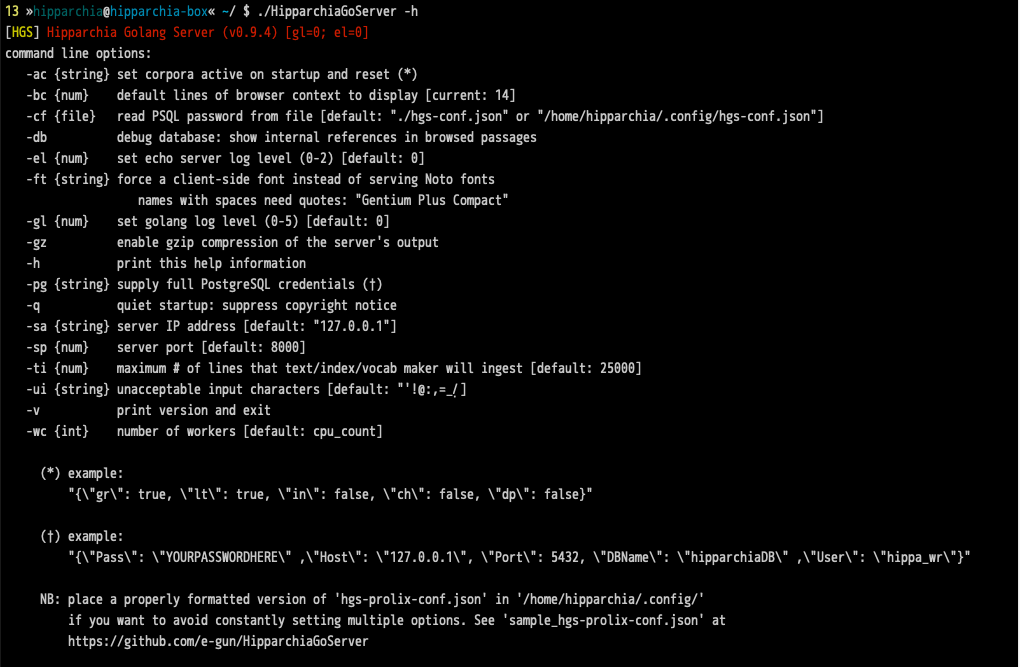
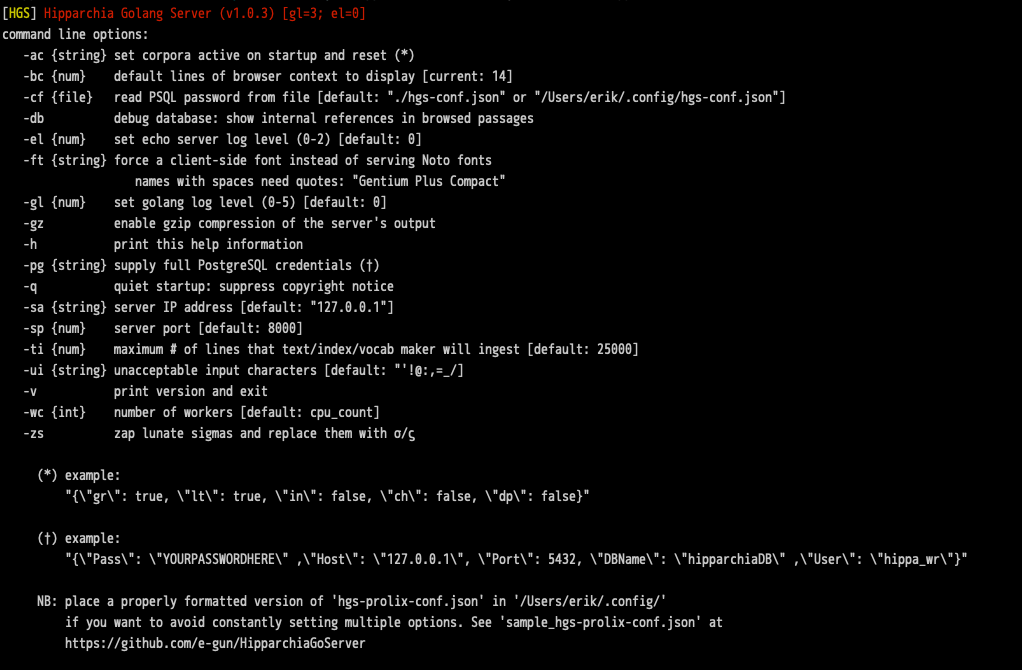
rationalizeselections() was not dropping deselected passage names when you picked an author

diff --git a/rt-search.go b/rt-search.go
@@ -57,7 +57,7 @@ func RtSearch(c echo.Context) error {
 	srch.ID = c.Param("id")
 	srch.IsVector = false
 	// HasPhrase makes us use a fake limit temporarily
-	reallimit := srch.Limit
+	reallimit := srch.CurrentLimit
 
 	srch.CleanInput()
 	srch.SetType() // must happen before SSBuildQueries()
@@ -75,10 +75,9 @@ func RtSearch(c echo.Context) error {
 	srch.SearchSize = sl.Size
 
 	if srch.Twobox {
-		srch.Limit = FIRSTSEARCHLIM
+		srch.CurrentLimit = FIRSTSEARCHLIM
 	}
 	SSBuildQueries(&srch)
-	srch.Limit = reallimit
 
 	srch.TableSize = len(srch.Queries)
 	srch.IsActive = true
@@ -94,6 +93,14 @@ func RtSearch(c echo.Context) error {
 	} else {
 		completed = HGoSrch(SearchMap[id])
 	}
+
+	// deduplicate
+	dedup := make(map[string]DbWorkline)
+	for _, r := range completed.Results {
+		dedup[r.BuildHyperlink()] = r
+	}
+
+	completed.Results = stringmapintoslice(dedup)
 
 	if completed.HasPhrase {
 		// you did HGoSrch() and need to check the windowed lines
@@ -172,7 +179,7 @@ func WithinXLinesSearch(originalsrch SearchStruct) SearchStruct {
 		newpsg[i] = np
 	}
 
-	second.Limit = originalsrch.Limit
+	second.CurrentLimit = originalsrch.CurrentLimit
 	second.SearchIn.Passages = newpsg
 
 	SSBuildQueries(&second)
@@ -406,14 +413,13 @@ func WithinXWordsSearch(originalsrch SearchStruct) SearchStruct {
 
 // generateinitialhits - part one of a two-part search
 func generateinitialhits(first SearchStruct) SearchStruct {
-	reallimit := first.Limit
-	first.Limit = FIRSTSEARCHLIM
 	first = HGoSrch(first)
 
 	if first.HasPhrase {
 		findphrasesacrosslines(&first)
 	}
-	first.Limit = reallimit
+	// this was toggled just before the queries were written; it needs to be reset now
+	first.CurrentLimit = first.OriginalLimit
 	return first
 }
 
@@ -429,7 +435,8 @@ func builddefaultsearch(c echo.Context) SearchStruct {
 	var srch SearchStruct
 	srch.User = user
 	srch.Launched = time.Now()
-	srch.Limit = sess.HitLimit
+	srch.CurrentLimit = sess.HitLimit
+	srch.OriginalLimit = sess.HitLimit
 	srch.SrchColumn = DEFAULTCOLUMN
 	srch.SrchSyntax = DEFAULTSYNTAX
 	srch.OrderBy = ORDERBY
@@ -460,40 +467,41 @@ func builddefaultsearch(c echo.Context) SearchStruct {
 // buildhollowsearch - is really a way to grab line collections via synthetic searchlists
 func buildhollowsearch() SearchStruct {
 	s := SearchStruct{
-		User:         "",
-		ID:           strings.Replace(uuid.New().String(), "-", "", -1),
-		Seeking:      "",
-		Proximate:    "",
-		LemmaOne:     "",
-		LemmaTwo:     "",
-		InitSum:      "",
-		Summary:      "",
-		ProxScope:    "",
-		ProxType:     "",
-		ProxDist:     0,
-		HasLemma:     false,
-		HasPhrase:    false,
-		IsVector:     false,
-		IsActive:     false,
-		OneHit:       false,
-		Twobox:       false,
-		NotNear:      false,
-		SkgRewritten: false,
-		PhaseNum:     0,
-		SrchColumn:   DEFAULTCOLUMN,
-		SrchSyntax:   DEFAULTSYNTAX,
-		OrderBy:      ORDERBY,
-		Limit:        FIRSTSEARCHLIM,
-		SkgSlice:     nil,
-		PrxSlice:     nil,
-		SearchIn:     SearchIncExl{},
-		SearchEx:     SearchIncExl{},
-		Queries:      nil,
-		Results:      nil,
-		Launched:     time.Now(),
-		TTName:       strings.Replace(uuid.New().String(), "-", "", -1),
-		SearchSize:   0,
-		TableSize:    0,
+		User:          "",
+		ID:            strings.Replace(uuid.New().String(), "-", "", -1),
+		Seeking:       "",
+		Proximate:     "",
+		LemmaOne:      "",
+		LemmaTwo:      "",
+		InitSum:       "",
+		Summary:       "",
+		ProxScope:     "",
+		ProxType:      "",
+		ProxDist:      0,
+		HasLemma:      false,
+		HasPhrase:     false,
+		IsVector:      false,
+		IsActive:      false,
+		OneHit:        false,
+		Twobox:        false,
+		NotNear:       false,
+		SkgRewritten:  false,
+		PhaseNum:      0,
+		SrchColumn:    DEFAULTCOLUMN,
+		SrchSyntax:    DEFAULTSYNTAX,
+		OrderBy:       ORDERBY,
+		CurrentLimit:  FIRSTSEARCHLIM,
+		OriginalLimit: FIRSTSEARCHLIM,
+		SkgSlice:      nil,
+		PrxSlice:      nil,
+		SearchIn:      SearchIncExl{},
+		SearchEx:      SearchIncExl{},
+		Queries:       nil,
+		Results:       nil,
+		Launched:      time.Now(),
+		TTName:        strings.Replace(uuid.New().String(), "-", "", -1),
+		SearchSize:    0,
+		TableSize:     0,
 	}
 	s.AcqHitCounter()
 	s.AcqRemainCounter()

diff --git a/searchstructs.go b/searchstructs.go
@@ -13,44 +13,45 @@ import (
 //
 
 type SearchStruct struct {
-	User         string
-	ID           string
-	Seeking      string
-	Proximate    string
-	LemmaOne     string
-	LemmaTwo     string
-	InitSum      string
-	Summary      string
-	ProxScope    string // "lines" or "words"
-	ProxType     string // "near" or "not near"
-	ProxDist     int64
-	HasLemma     bool
-	HasPhrase    bool
-	IsVector     bool
-	IsActive     bool
-	OneHit       bool
-	Twobox       bool
-	NotNear      bool
-	SkgRewritten bool
-	PhaseNum     int
-	SrchColumn   string // usually "stripped_line", sometimes "accented_line"
-	SrchSyntax   string // almost always "~"
-	OrderBy      string // almost always "index" + ASC
-	Limit        int64
-	SkgSlice     []string // either just Seeking or a decomposed version of a Lemma's possibilities
-	PrxSlice     []string
-	SearchIn     SearchIncExl
-	SearchEx     SearchIncExl
-	Queries      []PrerolledQuery
-	Results      []DbWorkline
-	Launched     time.Time
-	TTName       string
-	SearchSize   int // # of works searched
-	TableSize    int // # of tables searched
-	ExtraMsg     string
-	Hits         *SrchCounter
-	Remain       *SrchCounter
-	lock         *sync.RWMutex
+	User          string
+	ID            string
+	Seeking       string
+	Proximate     string
+	LemmaOne      string
+	LemmaTwo      string
+	InitSum       string
+	Summary       string
+	ProxScope     string // "lines" or "words"
+	ProxType      string // "near" or "not near"
+	ProxDist      int64
+	HasLemma      bool
+	HasPhrase     bool
+	IsVector      bool
+	IsActive      bool
+	OneHit        bool
+	Twobox        bool
+	NotNear       bool
+	SkgRewritten  bool
+	PhaseNum      int
+	SrchColumn    string // usually "stripped_line", sometimes "accented_line"
+	SrchSyntax    string // almost always "~"
+	OrderBy       string // almost always "index" + ASC
+	CurrentLimit  int64
+	OriginalLimit int64
+	SkgSlice      []string // either just Seeking or a decomposed version of a Lemma's possibilities
+	PrxSlice      []string
+	SearchIn      SearchIncExl
+	SearchEx      SearchIncExl
+	Queries       []PrerolledQuery
+	Results       []DbWorkline
+	Launched      time.Time
+	TTName        string
+	SearchSize    int // # of works searched
+	TableSize     int // # of tables searched
+	ExtraMsg      string
+	Hits          *SrchCounter
+	Remain        *SrchCounter
+	lock          *sync.RWMutex
 }
 
 // CleanInput - remove bad chars, etc. from the submitted data

diff --git a/searchformatting.go b/searchformatting.go
@@ -150,7 +150,7 @@ func FormatWithContextResults(thesearch SearchStruct) SearchOutputJSON {
 	res.LemmaOne = ""
 	res.Proximate = ""
 	res.LemmaTwo = ""
-	res.Limit = (thesearch.Limit * int64(thesession.HitContext)) * 3
+	res.CurrentLimit = (thesearch.CurrentLimit * int64(thesession.HitContext)) * 3
 
 	context := int64(thesession.HitContext / 2)
 
@@ -342,7 +342,7 @@ func formatfinalsearchsummary(s *SearchStruct) string {
 	}
 
 	var hitcap string
-	if int64(len(s.Results)) == s.Limit {
+	if int64(len(s.Results)) == s.CurrentLimit {
 		hitcap = YESCAP
 	} else {
 		hitcap = NOCAP

diff --git a/goroutinesearcher.go b/goroutinesearcher.go
@@ -49,10 +49,10 @@ func HGoSrch(ss SearchStruct) SearchStruct {
 		findchannels[i] = fc
 	}
 
-	max := ss.Limit
+	max := ss.CurrentLimit
 	if ss.HasPhrase {
 		// windowing double-hits; c. 55% are valid; these get pared via findphrasesacrosslines()
-		max = ss.Limit * 3
+		max = ss.CurrentLimit * 3
 	}
 
 	results := ResultCollation(ctx, &ss, max, ResultAggregator(ctx, findchannels...))

diff --git a/theconstants.go b/theconstants.go
@@ -110,6 +110,7 @@ const (
    -ui {string} unacceptable input characters [default: %s]
    -v           print version and exit
    -wc {int}    number of workers [default: cpu_count]
+   -zs          zap lunate sigmas and replace them with σ/ς
 
      (*) example: 
          "{\"gr\": true, \"lt\": true, \"in\": false, \"ch\": false, \"dp\": false}"

diff --git a/rt-textsindicesandvocab.go b/rt-textsindicesandvocab.go
@@ -697,7 +697,7 @@ func sessionintobulksearch(c echo.Context, lim int64) SearchStruct {
 
 	srch := builddefaultsearch(c)
 	srch.Seeking = ""
-	srch.Limit = lim
+	srch.CurrentLimit = lim
 	srch.InitSum = "(gathering and formatting lines of text)"
 	srch.ID = strings.Replace(uuid.New().String(), "-", "", -1)
 

diff --git a/buildquery.go b/buildquery.go
@@ -210,7 +210,7 @@ func SSBuildQueries(s *SearchStruct) {
 			t.AU = au
 			t.COL = s.SrchColumn
 			t.SYN = syn
-			t.LIM = fmt.Sprintf("%d", s.Limit)
+			t.LIM = fmt.Sprintf("%d", s.CurrentLimit)
 			t.TTN = ntt
 			t.PSCol = s.SrchColumn
 			t.SK = skg

diff --git a/README.md b/README.md
@@ -39,9 +39,9 @@ github.com/AlDanial/cloc v 1.94  T=0.03 s (1032.0 files/s, 448622.8 lines/s)
 -------------------------------------------------------------------------------
 Language                     files          blank        comment           code
 -------------------------------------------------------------------------------
-Go                              26           1703           1817           7783
+Go                              26           1710           1923           7851
 -------------------------------------------------------------------------------
-SUM:                            26           1703           1817           7783
+SUM:                            26           1710           1923           7851
 -------------------------------------------------------------------------------
 
 
